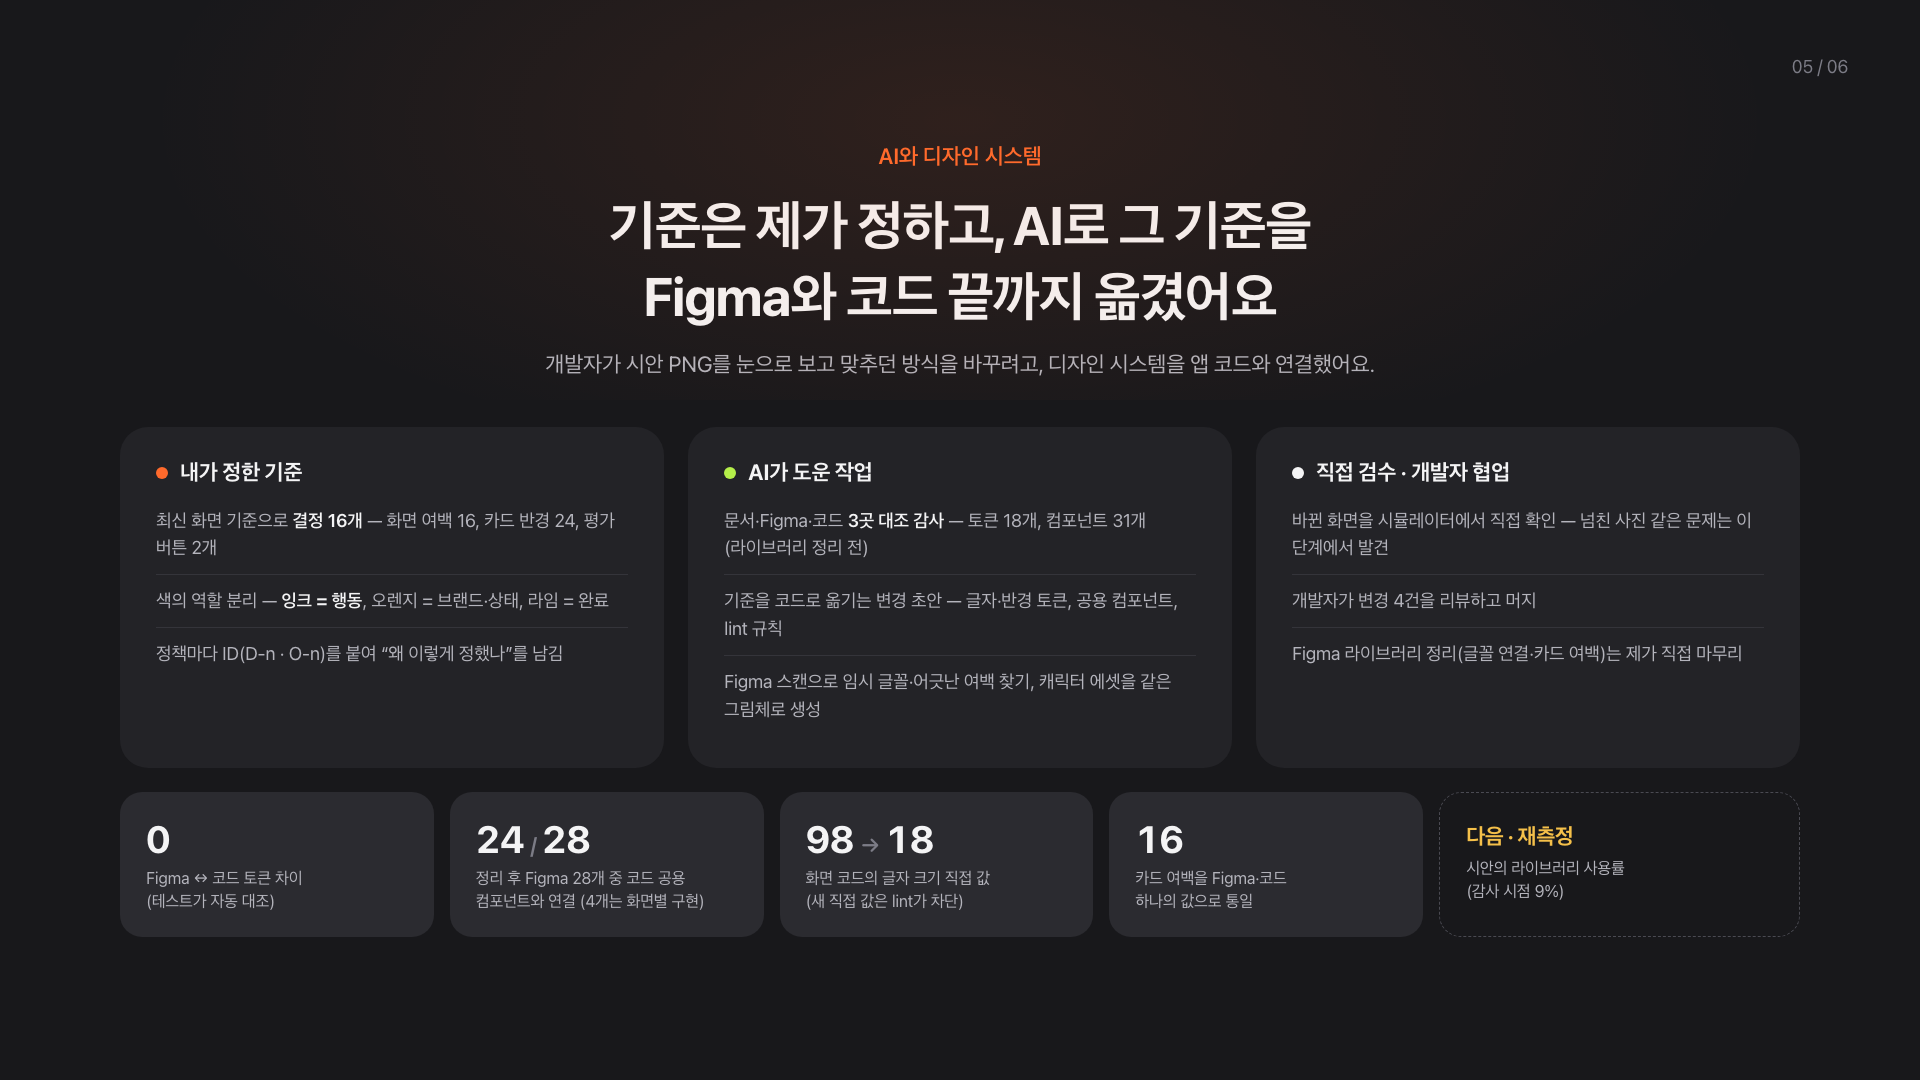
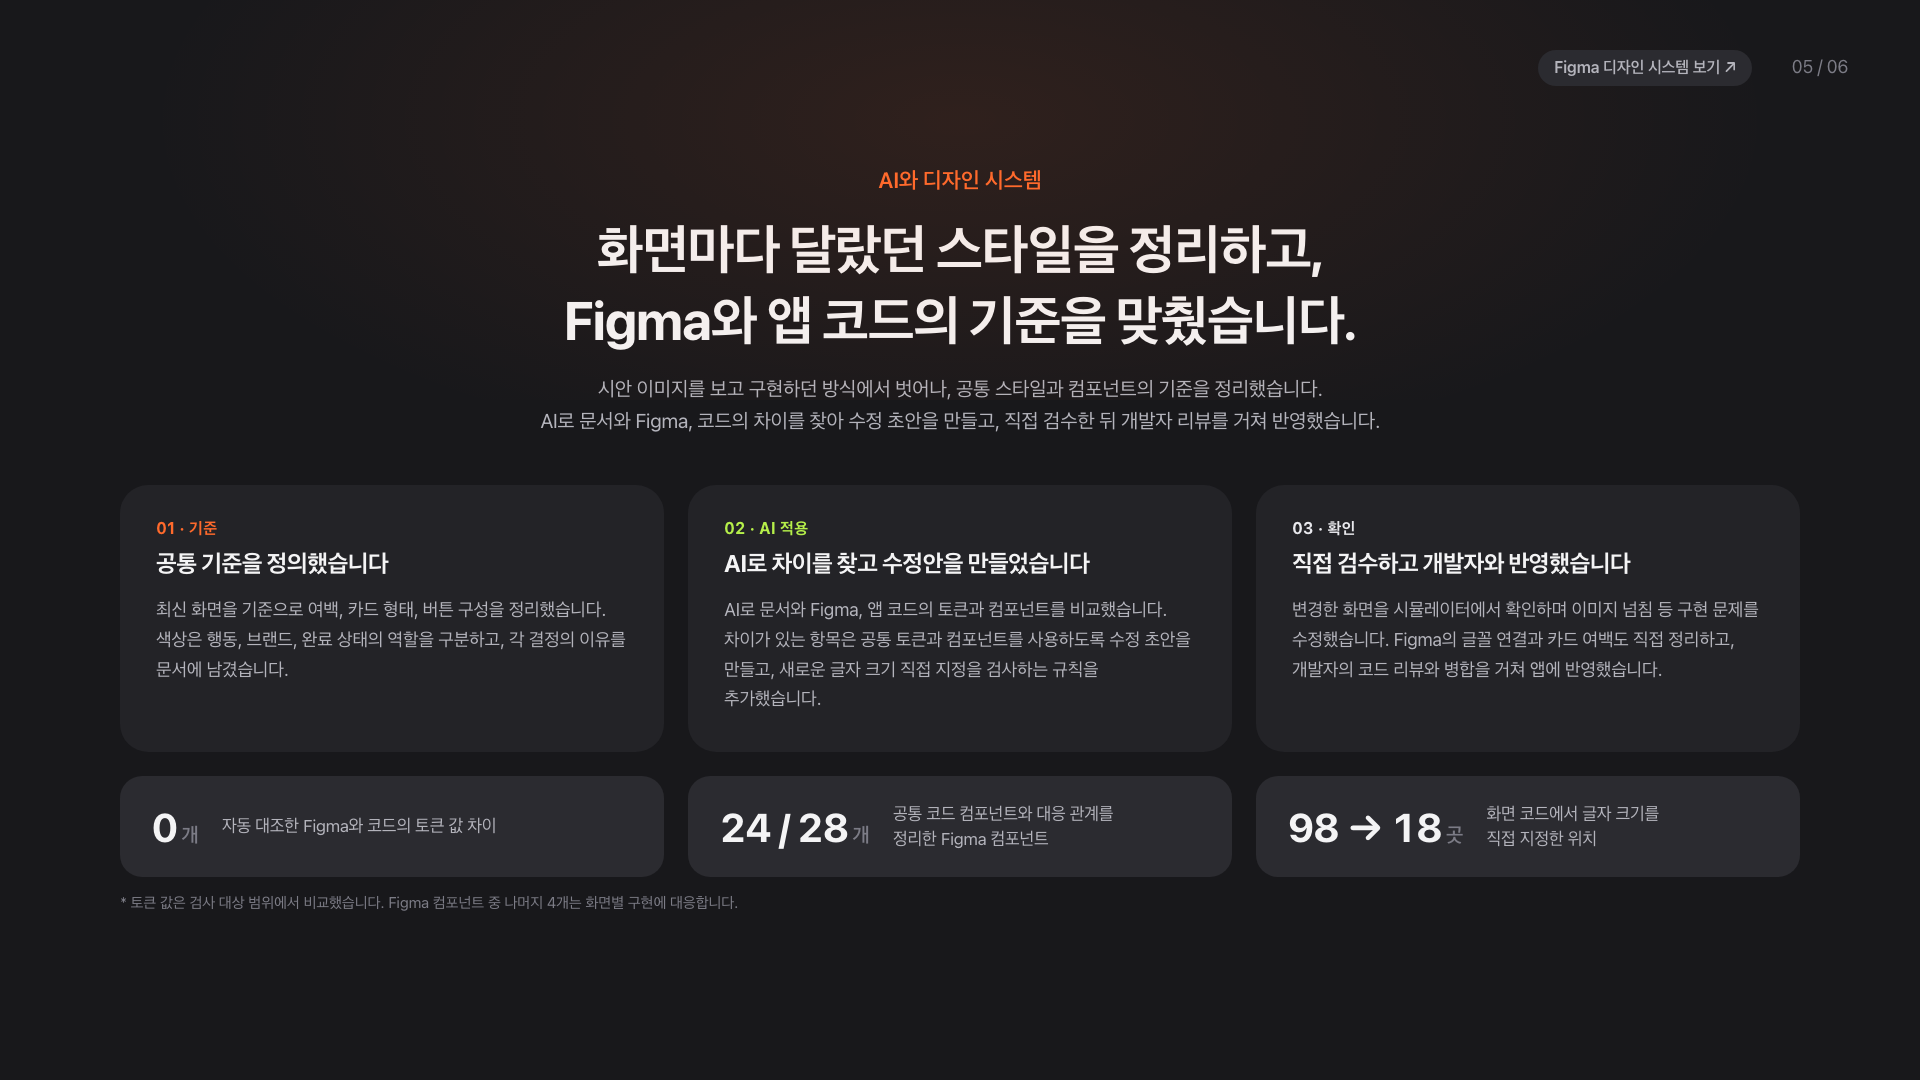
portfolio: 5장 AI와 디자인 시스템 — 기준→AI 적용→확인 흐름으로 재구성, 결과 수치 3개 + 범위 주석, Figma 링크
작업량 숫자(결정 16·토큰 18·컴포넌트 31·사용률 9%)는 본문에서 제외.

diff --git a/portfolio/onikan-deck-2026-11.html b/portfolio/onikan-deck-2026-11.html
@@ -151,22 +151,23 @@
   .s3 .next li b { display: block; font-size: 20px; margin-bottom: 4px; }
 
   /* ───────── 4. AI와 디자인 시스템 ───────── */
-  .s4 .head { margin-bottom: 44px; }
-  .s4 .head h1 { margin: 18px 0 16px; }
+  .s4 .fig-link { position: absolute; top: 50px; right: 168px; height: 36px; padding: 0 16px; border-radius: 999px;
+                  display: inline-flex; align-items: center; background: var(--panel-2); color: var(--body);
+                  font-size: 16px; font-weight: 600; text-decoration: none; white-space: nowrap; }
+  .s4 .head { margin-bottom: 48px; }
+  .s4 .head h1 { margin: 18px 0 18px; }
+  .s4 .head .sub { font-size: 20px; }
   .s4 .cols { display: grid; grid-template-columns: repeat(3, 1fr); gap: 24px; }
-  .s4 .col { background: var(--panel); border-radius: 28px; padding: 32px 36px; }
-  .s4 .col .who { display: flex; align-items: center; gap: 12px; font-size: 22px; font-weight: 700; margin-bottom: 20px; }
-  .s4 .col .who .dot { width: 12px; height: 12px; border-radius: 50%; }
-  .s4 .col ul { list-style: none; }
-  .s4 .col li { font-size: 18px; line-height: 1.55; color: var(--body); padding: 12px 0; border-top: 1px solid var(--line); }
-  .s4 .col li:first-child { border-top: 0; padding-top: 0; }
-  .s4 .nums { margin-top: 24px; display: grid; grid-template-columns: repeat(4, 1fr) 1.15fr; gap: 16px; }
-  .s4 .num { background: var(--panel-2); border-radius: 22px; padding: 24px 26px; }
-  .s4 .num .v { font-size: 38px; font-weight: 700; letter-spacing: -0.02em; font-variant-numeric: tabular-nums; }
-  .s4 .num .v small { font-size: 22px; color: var(--mute); font-weight: 600; margin: 0 6px; }
-  .s4 .num .k { font-size: 16px; line-height: 1.45; color: var(--body); margin-top: 6px; }
-  .s4 .num.next { background: transparent; border: 1.5px dashed #4A4A52; }
-  .s4 .num.next .v { font-size: 22px; color: var(--amber); padding-top: 6px; }
+  .s4 .col { background: var(--panel); border-radius: 28px; padding: 34px 36px 38px; }
+  .s4 .col .step { font-size: 16px; font-weight: 700; letter-spacing: 0.02em; }
+  .s4 .col .who { font-size: 24px; font-weight: 700; letter-spacing: -0.02em; margin: 10px 0 16px; }
+  .s4 .col p { font-size: 18px; line-height: 1.65; color: var(--body); }
+  .s4 .nums { margin-top: 24px; display: grid; grid-template-columns: repeat(3, 1fr); gap: 24px; }
+  .s4 .num { background: var(--panel-2); border-radius: 22px; padding: 26px 32px; display: flex; align-items: center; gap: 24px; }
+  .s4 .num .v { font-size: 40px; font-weight: 700; letter-spacing: -0.02em; font-variant-numeric: tabular-nums; white-space: nowrap; }
+  .s4 .num .v small { font-size: 20px; color: var(--mute); font-weight: 600; margin-left: 4px; }
+  .s4 .num .k { font-size: 17px; line-height: 1.45; color: var(--body); }
+  .s4 .nums-note { margin-top: 16px; font-size: 15px; color: var(--mute); }
 
   /* ───────── 5. AI 워크플로 도식 (onikan-ai-workflow.html과 같은 내용) ───────── */
   .s5 { justify-content: flex-start; padding-top: 84px; }
@@ -371,46 +372,37 @@
 <!-- ═════════ 5. AI와 디자인 시스템 ═════════ -->
 <section class="slide s4" id="s4">
   <div class="page-no">05 / 06</div>
+  <a class="fig-link" href="https://www.figma.com/design/Yo6tyXMvlhrKVEzwlZKH3R?node-id=1-33" target="_blank" rel="noopener">Figma 디자인 시스템 보기 ↗</a>
   <div class="head center">
     <div class="label">AI와 디자인 시스템</div>
-    <h1>기준은 제가 정하고, AI로 그 기준을<br>Figma와 코드 끝까지 옮겼어요</h1>
-    <p class="sub">개발자가 시안 PNG를 눈으로 보고 맞추던 방식을 바꾸려고, 디자인 시스템을 앱 코드와 연결했어요.</p>
+    <h1>화면마다 달랐던 스타일을 정리하고,<br>Figma와 앱 코드의 기준을 맞췄습니다.</h1>
+    <p class="sub">시안 이미지를 보고 구현하던 방식에서 벗어나, 공통 스타일과 컴포넌트의 기준을 정리했습니다.<br>AI로 문서와 Figma, 코드의 차이를 찾아 수정 초안을 만들고, 직접 검수한 뒤 개발자 리뷰를 거쳐 반영했습니다.</p>
   </div>
 
   <div class="cols">
     <div class="col">
-      <div class="who"><span class="dot" style="background:var(--orange)"></span>내가 정한 기준</div>
-      <ul>
-        <li>최신 화면 기준으로 <b>결정 16개</b> — 화면 여백 16, 카드 반경 24, 평가 버튼 2개</li>
-        <li>색의 역할 분리 — <b>잉크 = 행동</b>, 오렌지 = 브랜드·상태, 라임 = 완료</li>
-        <li>정책마다 ID(D-n · O-n)를 붙여 “왜 이렇게 정했나”를 남김</li>
-      </ul>
+      <div class="step" style="color:var(--orange)">01 · 기준</div>
+      <div class="who">공통 기준을 정의했습니다</div>
+      <p>최신 화면을 기준으로 여백, 카드 형태, 버튼 구성을 정리했습니다. 색상은 행동, 브랜드, 완료 상태의 역할을 구분하고, 각 결정의 이유를 문서에 남겼습니다.</p>
     </div>
     <div class="col">
-      <div class="who"><span class="dot" style="background:var(--lime)"></span>AI가 도운 작업</div>
-      <ul>
-        <li>문서·Figma·코드 <b>3곳 대조 감사</b> — 토큰 18개, 컴포넌트 31개(라이브러리 정리 전)</li>
-        <li>기준을 코드로 옮기는 변경 초안 — 글자·반경 토큰, 공용 컴포넌트, lint 규칙</li>
-        <li>Figma 스캔으로 임시 글꼴·어긋난 여백 찾기, 캐릭터 에셋을 같은 그림체로 생성</li>
-      </ul>
+      <div class="step" style="color:var(--lime)">02 · AI 적용</div>
+      <div class="who">AI로 차이를 찾고 수정안을 만들었습니다</div>
+      <p>AI로 문서와 Figma, 앱 코드의 토큰과 컴포넌트를 비교했습니다. 차이가 있는 항목은 공통 토큰과 컴포넌트를 사용하도록 수정 초안을 만들고, 새로운 글자 크기 직접 지정을 검사하는 규칙을 추가했습니다.</p>
     </div>
     <div class="col">
-      <div class="who"><span class="dot" style="background:var(--ink)"></span>직접 검수 · 개발자 협업</div>
-      <ul>
-        <li>바뀐 화면을 시뮬레이터에서 직접 확인 — 넘친 사진 같은 문제는 이 단계에서 발견</li>
-        <li>개발자가 변경 4건을 리뷰하고 머지</li>
-        <li>Figma 라이브러리 정리(글꼴 연결·카드 여백)는 제가 직접 마무리</li>
-      </ul>
+      <div class="step" style="color:var(--white)">03 · 확인</div>
+      <div class="who">직접 검수하고 개발자와 반영했습니다</div>
+      <p>변경한 화면을 시뮬레이터에서 확인하며 이미지 넘침 등 구현 문제를 수정했습니다. Figma의 글꼴 연결과 카드 여백도 직접 정리하고, 개발자의 코드 리뷰와 병합을 거쳐 앱에 반영했습니다.</p>
     </div>
   </div>
 
   <div class="nums">
-    <div class="num"><div class="v">0</div><div class="k">Figma ↔ 코드 토큰 차이<br>(테스트가 자동 대조)</div></div>
-    <div class="num"><div class="v">24<small>/</small>28</div><div class="k">정리 후 Figma 28개 중 코드 공용<br>컴포넌트와 연결 (4개는 화면별 구현)</div></div>
-    <div class="num"><div class="v">98<small>→</small>18</div><div class="k">화면 코드의 글자 크기 직접 값<br>(새 직접 값은 lint가 차단)</div></div>
-    <div class="num"><div class="v">16</div><div class="k">카드 여백을 Figma·코드<br>하나의 값으로 통일</div></div>
-    <div class="num next"><div class="v">다음 · 재측정</div><div class="k">시안의 라이브러리 사용률<br>(감사 시점 9%)</div></div>
+    <div class="num"><div class="v">0<small>개</small></div><div class="k">자동 대조한 Figma와 코드의 토큰 값 차이</div></div>
+    <div class="num"><div class="v">24 / 28<small>개</small></div><div class="k">공통 코드 컴포넌트와 대응 관계를<br>정리한 Figma 컴포넌트</div></div>
+    <div class="num"><div class="v">98 → 18<small>곳</small></div><div class="k">화면 코드에서 글자 크기를<br>직접 지정한 위치</div></div>
   </div>
+  <p class="nums-note">* 토큰 값은 검사 대상 범위에서 비교했습니다. Figma 컴포넌트 중 나머지 4개는 화면별 구현에 대응합니다.</p>
 </section>
 
 </div>
